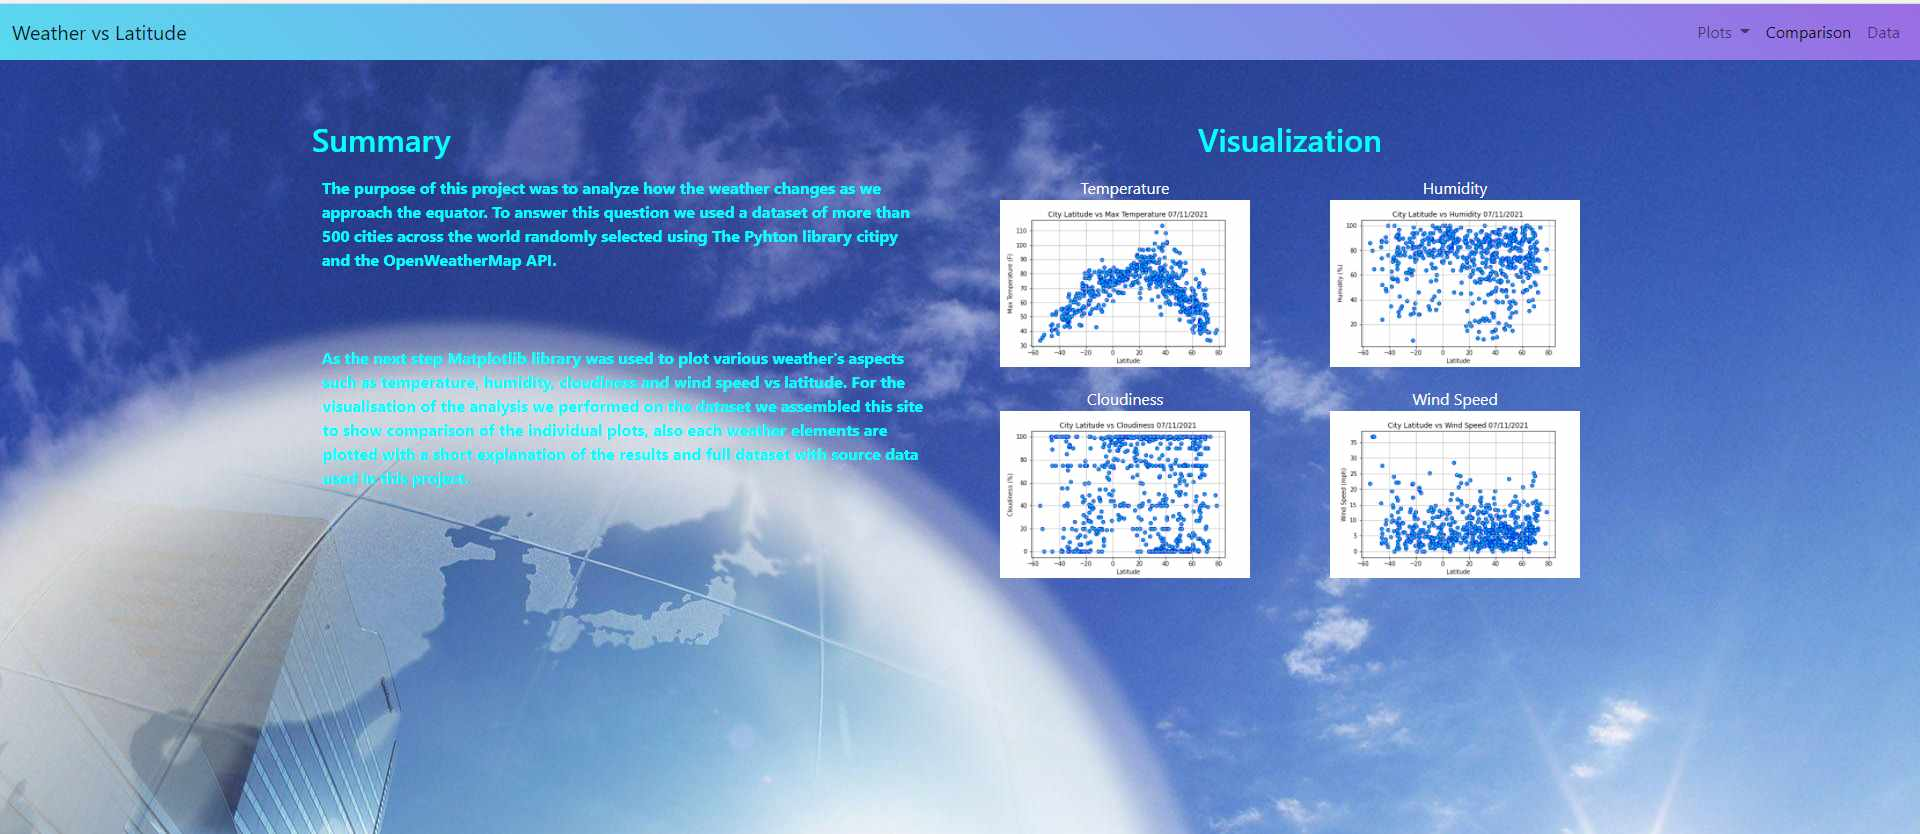
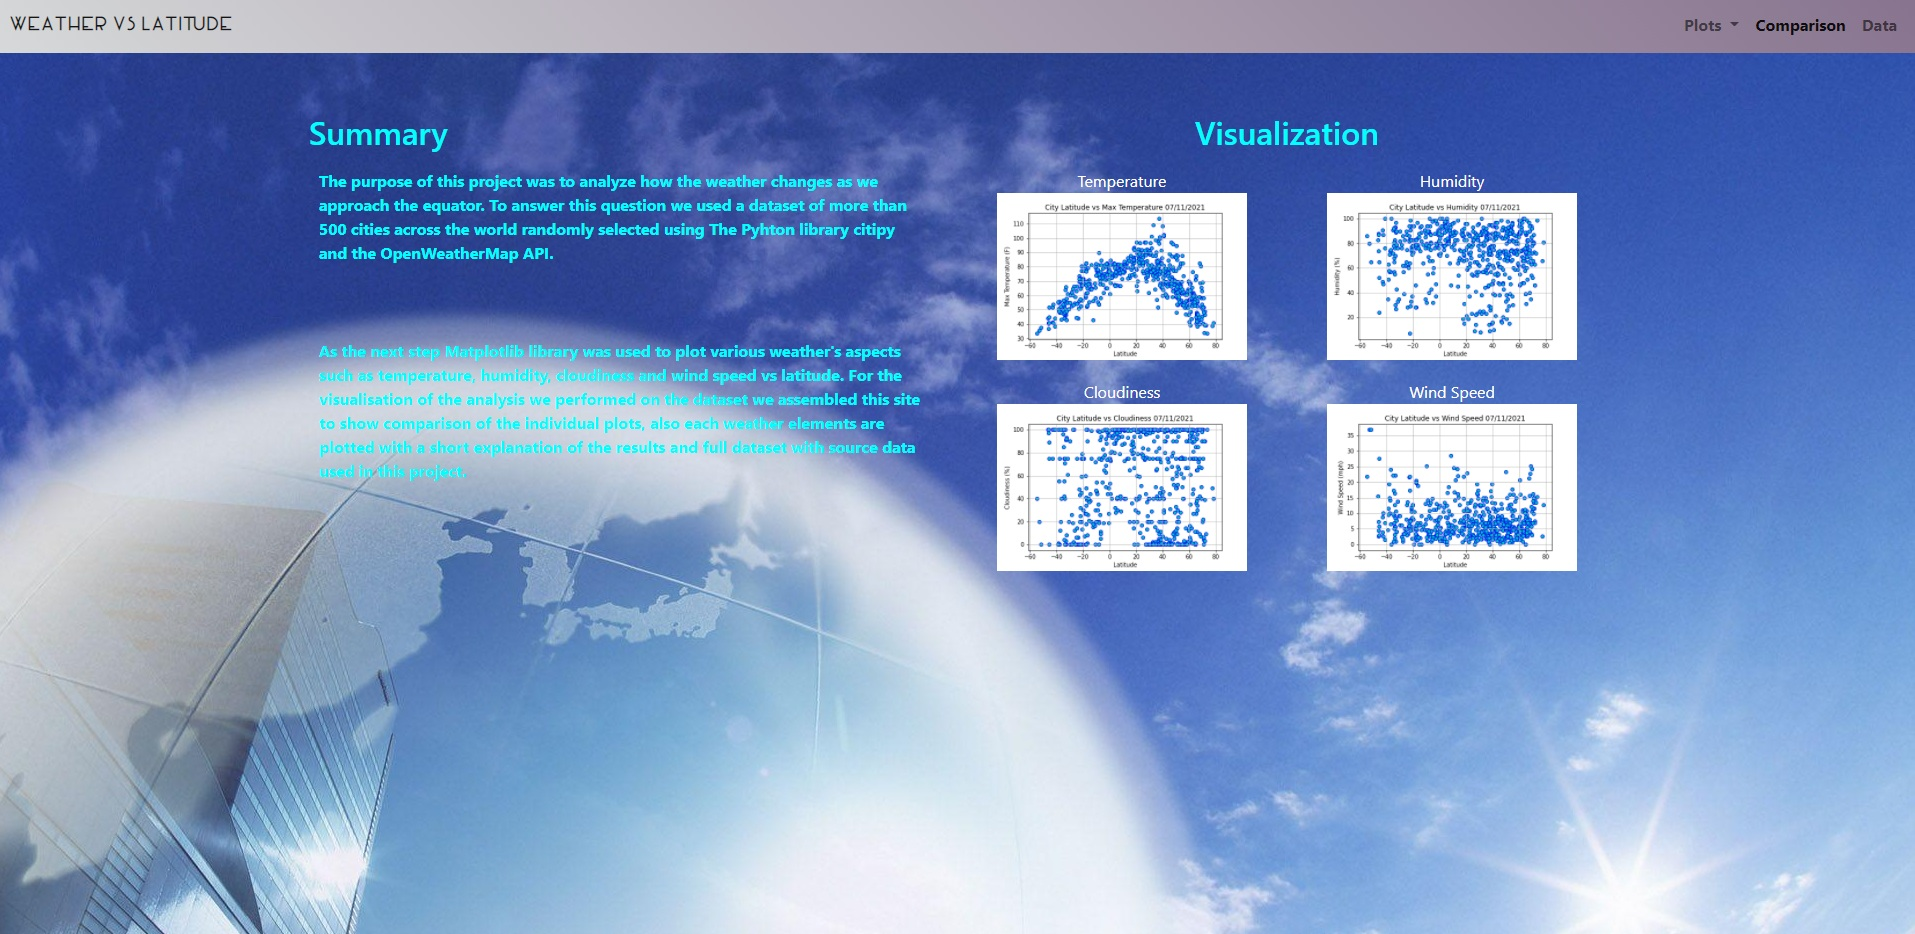
updating appearance - font, images

diff --git a/index.html b/index.html
@@ -84,17 +84,14 @@
       <div class="col-sm-2">
       </div>
 
-      <div class="col-sm-2">
-        <h5></h5>
-      </div>
-      <br><br><br><br><br>
     </div>
+    <br><br><br><br>
     <div class="row">
       <div class="col-sm-2">
       </div>
 
       <div class="col-sm-2">
-        <img src="Images/bellybutton.jpg" width=200 />
+        <img src="Images/bellybutton.jpg"  width=200 />
         <h5><a href="https://dasasimo.github.io/Interactive-Web-Visualization/Biodiversity/index.html"
             style="text-decoration:none" target="_blank">Biodiversity Dashboard</a></h5>
         </h5>
@@ -117,12 +114,9 @@
       <div class="col-sm-2">
         <h5></h5>
       </div>
+     </div>
 
-      <div class="col-sm-2">
-        <h5></h5>
-      </div>
-      <br><br><br><br><br>
-    </div>
+     <br><br><br><br>
     <div class="row">
       <div class="col-sm-2">
       </div>
@@ -147,12 +141,9 @@
 
       <div class="col-sm-2">
       </div>
-
-      <div class="col-sm-2">
-        <h5></h5>
-      </div>
-      <br><br><br><br><br>
     </div>
+
+    <br><br><br><br>
     <div class="row">
       <div class="col-sm-2">
       </div>
@@ -169,30 +160,24 @@
 
         In this group project we created a model that would predict the quality of white and red wine creation using
         supervised machine learning. In our models we analyzed the effects of selected features based on
-        physicochemical (input) variables by using Random Forest Classifier. I built model for red wine, followed with
+        physicochemical (input) variables by using Random Forest Classifier. I built a model for red wine, followed with
         white wine model from Josh to predict the quality score of the wine (output variable). I wanted to tackle the
         data about world wines from Kaggle and tried to build a model which could give the quality output based on the
         price of the wine, country of origin, and the variety of the wine. Those are information the consumers are
-        usually
-        considering before they choose a wine to buy. So, what will be the quality of the wine, can we predict the
+        usually considering before they choose a wine to buy. So, what will be the quality of the wine, can we predict the
         good quality of the wine based on our model?
         <br>
         <b>Type of project:</b> group <br>
-        <b>Technologies:</b> Python, JavaScript, Machine Learning (Seaborn, Sklearn, Numpy, Matplotlib, Joblib), HTML /
-        CSS
+        <b>Technologies:</b> Python (Flask, Pandas), JavaScript, Machine Learning (Seaborn, Sklearn, Numpy, Matplotlib, Joblib), HTML /
+        CSS (Bootstrap)
 
       </div>
 
       <div class="col-sm-2">
       </div>
-
-      <div class="col-sm-2">
-        <h5></h5>
-      </div>
-      <br><br><br><br><br>
     </div>
 
-    <br><br><br>
+    <br><br><br><br>
 
     <div class="row">
       <div class="col-sm-4">

diff --git a/css/style.css b/css/style.css
@@ -100,3 +100,7 @@ h5 {
     top:0; 
     z-index:1;
 }
+
+img {
+    border-radius: 8px;
+  }
